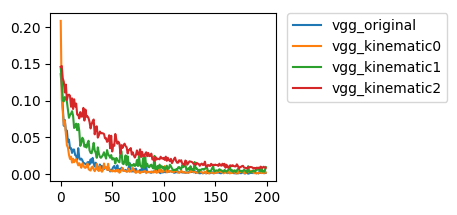
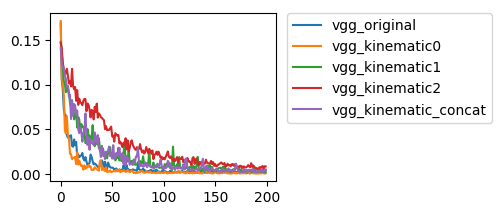
updated with new plots

diff --git a/src/il_ros_hsr/p_pi/safe_corl/vgg/vgg_kinematics.py b/src/il_ros_hsr/p_pi/safe_corl/vgg/vgg_kinematics.py
@@ -47,8 +47,7 @@ class vggKin:
 
         # zero-mean input
         with tf.name_scope('preprocess') as scope:
-            #mean = tf.constant([123.68, 116.779, 103.939], dtype=tf.float32, shape=[1, 1, 1, 3], name='img_mean')
-            mean = tf.constant([113.45, 113.45, 113.45])
+            mean = tf.constant([123.68, 116.779, 103.939], dtype=tf.float32, shape=[1, 1, 1, 3], name='img_mean')
             images = self.imgs-mean
 
         self.conv1_1 = self.make_conv_layer(images, "conv1_1", 3, 64)

diff --git a/p_trainer/test_vgg_features.py b/p_trainer/test_vgg_features.py
@@ -50,7 +50,7 @@ if __name__ == '__main__':
     state_stats = []
     com = COM()
     features = Features()
-    which_to_run = [False, False, False, False, True]
+    which_to_run = [True, True, True, True, True]
     ind_of_run = 0
 
     ##################################### VGG ORIGINAL #####################################
